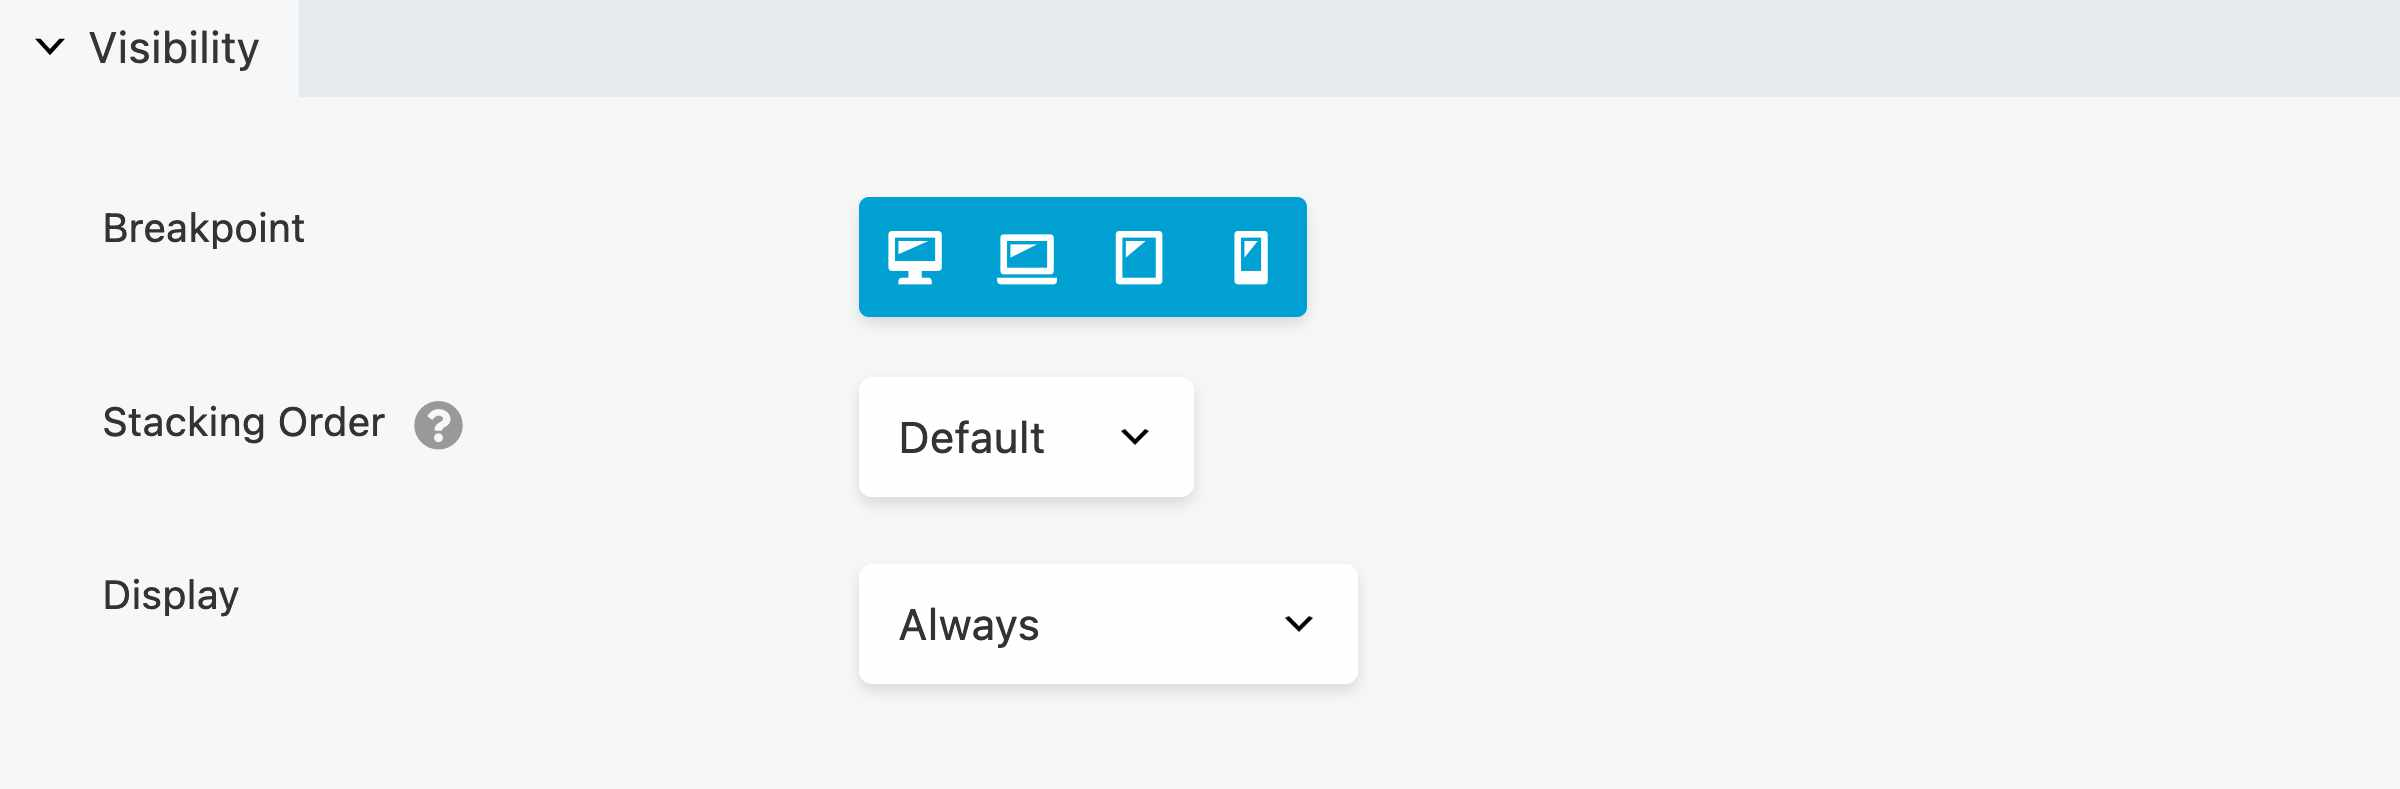
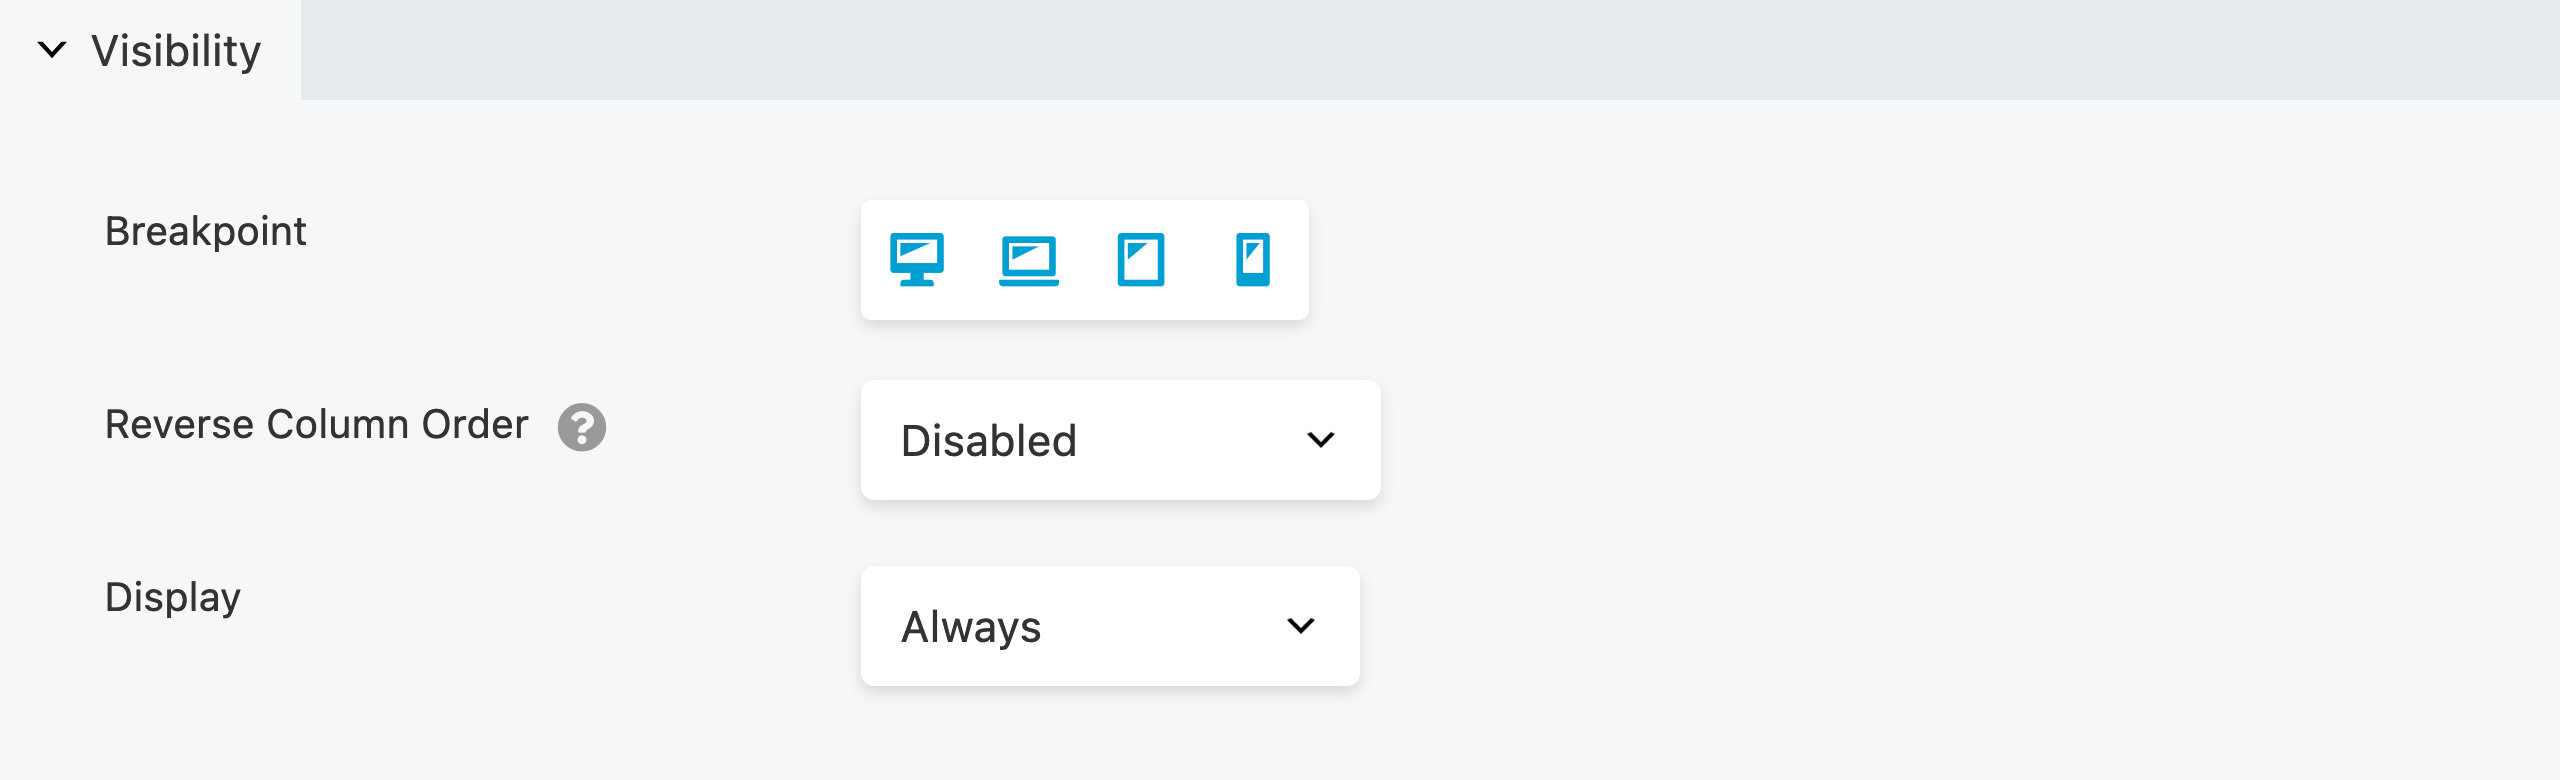
improve visibility and updated images

diff --git a/docs/beaver-builder/layouts/advanced-tab/visibility.md b/docs/beaver-builder/layouts/advanced-tab/visibility.md
@@ -10,12 +10,12 @@ The **Visibility** section in the Advanced tab lets you determine when your rows
 ![Visibility section in the Advanced tab](/img/beaver-builder/advanced-tab--visibility--1.jpg)
 
 :::info
-The **Stacking Order** option is only available for **Columns**.
+The **Reverse Stacking Order** option is only available for [Columns](columns/index.md).
 :::
 
 ## Breakpoint
 
-By default, every row, column, and module is visible on every device size. You can use the Breakpoint setting to hide individual rows, columns, and modules for certain device sizes. In the Global Settings, you can view the default breakpoints and set custom values.
+By default, every row, column, and module is visible on every device size. You can use the [Breakpoint](responsive/breakpoints.md) setting to hide individual rows, columns, and modules for certain device sizes. In the [Global Settings](user-interface/global-settings.md#medium-device-breakpoint), you can view the default breakpoints and set custom values.
 
 ### Device Toggle Icons
 
@@ -23,35 +23,36 @@ Using the device toggle icons, you can quickly select which devices display or h
 
 You can choose one of the following device toggle icons:
 
-* **Extra Large Device**  
-	The element will be visible or hidden for desktop computers or TVs with a browser.
+* ![Extra Large Device](/img/desktop-dashicons.svg) **Extra Large Device**  
+  The element will be visible or hidden for desktop computers or TVs with a browser.
 
-* **Large Device**  
-	The element will be visible or hidden for small desktop computers, laptops, and landscape tablets.
+* ![Large Device](/img/laptop-dashicons.svg) **Large Device**  
+  The element will be visible or hidden for small desktop computers, laptops, and landscape tablets.
 
-* **Medium Device**  
-	The element will be visible or hidden for devices like small tablets.
+* ![Medium Device](/img/tablet-dashicons.svg) **Medium Device**  
+  The element will be visible or hidden for devices like small tablets.
 
-* **Small Device**  
-	The element will be visible or hidden for devices like portrait tablets, and smartphones.
-
-:::tip
-By default, all device toggle icons are enabled (blue), displaying the row, column, or module at all times.
-:::
+* ![Small Device](/img/smartphone-dashicons.svg) **Small Device**  
+  The element will be visible or hidden for devices like portrait tablets, and smartphones.
 
 ### Multi-selection
 
-The device toggle supports multi-selection and allows you to select more than one device. As a result, you are not limited to preset combinations, such as Large & Medium or Medium & Small, and can create any combination you wish.
+All device toggle icons are enabled (blue) by default, indicating that the corresponding row, column, or module is always displayed. The device toggle feature allows for multi-selection, enabling users to choose more than one device at a time. This eliminates the restriction of pre-defined combinations such as Large & Medium or Medium & Small, giving users the freedom to create any combination they desire.
 
-It is possible, for example, to display a row on Extra Large, Large, and Small devices and hide the row on Medium devices. In addition, a Heading module can be hidden on Extra Large and Small devices, but displayed on Large and Medium devices.
+For instance, users can choose to display a row on Extra Large, Large, and Small devices while hiding it on Medium devices. Similarly, a Heading module can be hidden on Extra Large and Small devices but displayed on Large and Medium devices.
 
 ![Device Toggle Combinations](/img/beaver-builder/advanced-tab--visibility--2.jpg)
 
-## Stacking Order (Columns)
+## Stacking Order *(Columns only)*
 
-The **Stacking Order** option is only available for columns and lets you easily reverse the stacking order of columns.
+This option only applies to columns, allowing you to reverse the stacking order of columns for medium and small devices. You can choose from the following options:
 
-See the [Columns Stacking](/beaver-builder/layouts/columns/reverse-column-stacking-order.md) article for more information.
+* Disabled
+* Small
+* Medium
+* Small & Medium
+
+See the [Columns Stacking](columns/stacking.md) article for more information.
 
 ## Display
 
@@ -59,11 +60,11 @@ The **Display** option lets you display your row, column or module based certain
 
 ### Never
 
-The row, column or module is only visible to the user editing the page. This is useful if the design isn't complete and ready for publishing.
+The row, column, or module is only visible to the user editing the page. This is useful if the design isn’t complete and ready for publishing. Using this feature is an excellent way to ensure that your design is exactly how you want it before making it public on your page layout.
 
 ### Always
 
-The row, column or module will always be visible for all users.
+The row, column, or module is visible at all times for every user.
 
 ### Logged Out Users
 
@@ -71,14 +72,28 @@ The row, column or module will only be visible for logged out users.
 
 ### Logged In Users
 
-The row, column or module will only be visible for logged in users. If you choose to show an element only when a user is logged in, you can also enter a [capability](https://wordpress.org/support/article/roles-and-capabilities/) the user must have. This is useful for limiting the row, column or module to specific users roles.
+The row, column, or module is only visible to users who have logged in to your website. You can also utilize a [WordPress capability](https://wordpress.org/support/article/roles-and-capabilities/) to limit the visibility of the row, column, or module to certain user roles. To achieve this, specify a capability that is unique to the user role and not shared by other roles
 
-### Conditional Logic
+As an example, if you wish to hide a row from all users except those with the Administrator role, you can input the capability `install_plugins` as it is exclusive to users assigned to the Administrator role.
 
-The Conditional Logic option is only available if you have Beaver Themer installed. This lets you fine-tune visibility using conditional logic.
+![Using WordPress Capbilities to show or hide content](/img/beaver-builder/advanced-tab--visibility--3.jpg)
 
-## Visibility Rules Indicator
+:::caution
+This option does not allow adding WordPress user roles; it only accepts [WordPress capabilities](https://wordpress.org/support/article/roles-and-capabilities/). Adding a WordPress user role to this option is invalid, and it will not trigger any action.
+:::
 
-If you limit visibility, an Eye icon will appear when hovering your mouse cursor over a row, column, or module, as shown in the following screenshot:
+### Conditional Logic *(requires Beaver Themer)*
 
-![Visibility Rules Indicator](/img/beaver-builder/advanced-tab--visibility--3.jpg)
+This option enables the showing or hiding of rows, columns, or modules based on specific conditions. For instance, users may choose to display a module as a banner for all WooCommerce products that are currently on sale.  
+
+For additional details, please refer to the Beaver Themer Conditional Logic article.
+
+## Display Indicator
+
+When you restrict the display of a row, column, or module, an eye icon will appear in the Beaver Builder UI overlay. The color of the eye icon will change based on the display option you have chosen. This feature provides a visual cue for you to easily identify the visibility status of your content while you are editing your layout.
+
+* When you limit the display of a row, column, or module using the **Never**, **Logged Out Users**, or **Logged In Users** options, a blue Eye <i className="fa-solid fa-eye" style={{color: "#00A0D2"}}></i> icon will be displayed in the Beaver Builder UI overlay.
+
+* When you limit the display of a row, column, or module using the **Conditional Logic** options, a red Eye <i className="fa-solid fa-eye" style={{color: "#FF0000"}}></i> icon will be displayed in the Beaver Builder UI overlay.
+
+![Visibility Rules Indicator](/img/beaver-builder/advanced-tab--visibility--4.jpg)
